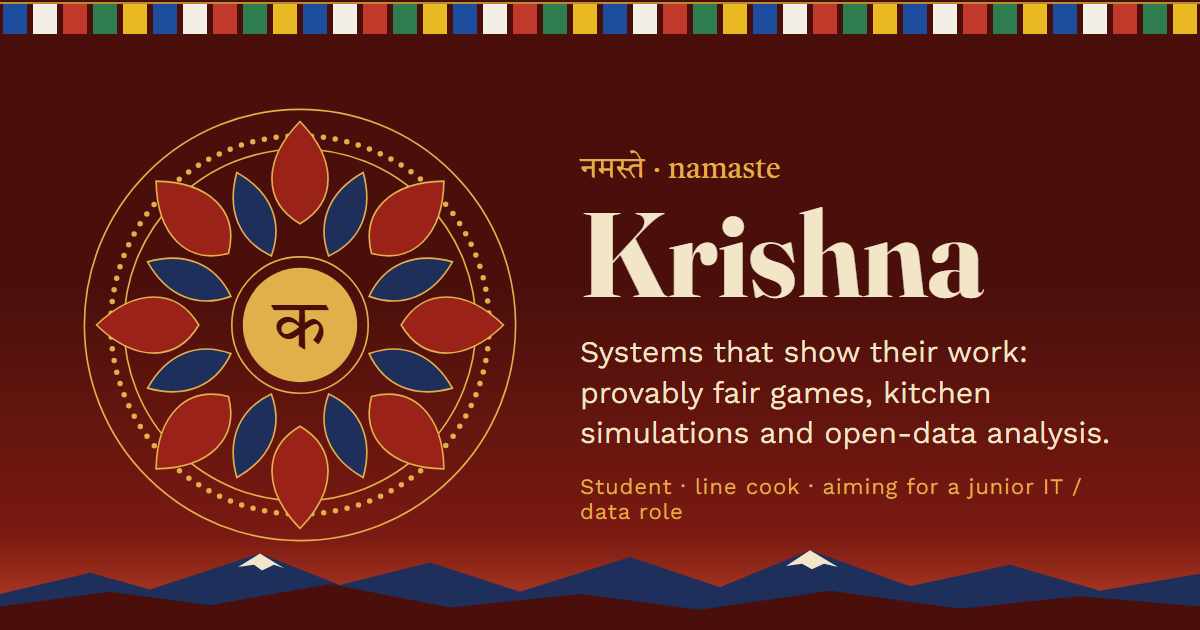
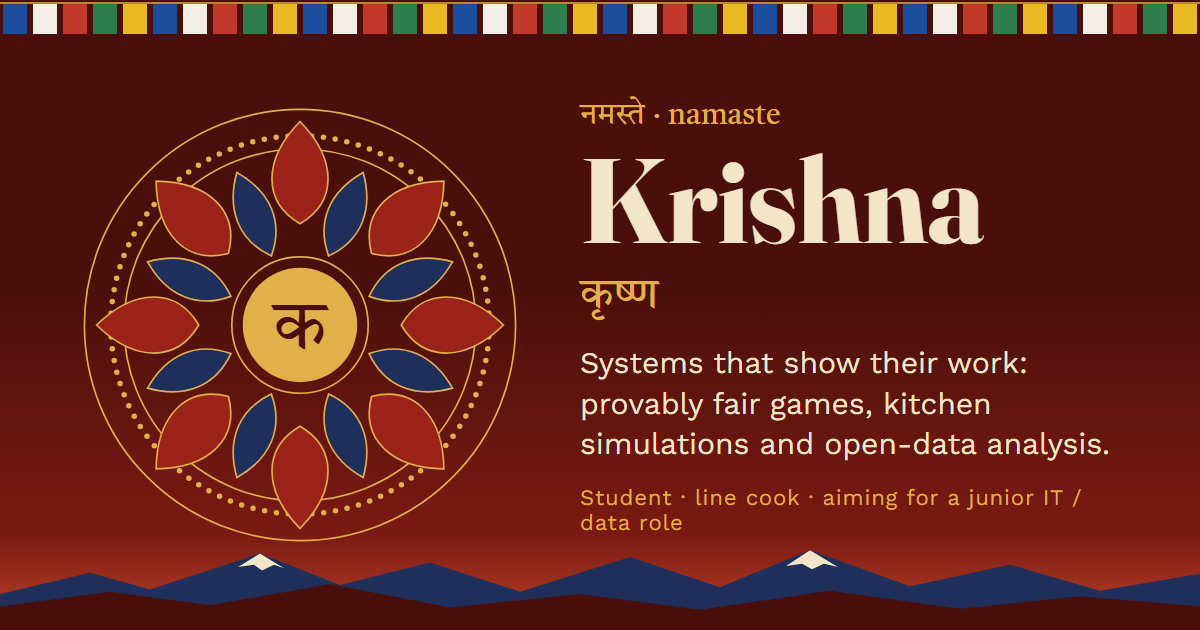
Show the name in Devanagari in the hero and the share image

diff --git a/index.html b/index.html
@@ -134,6 +134,7 @@
     <div class="intro">
       <p class="kicker">नमस्ते &middot; namaste</p>
       <h1>Krishna</h1>
+      <p class="dev-name" lang="ne">कृष्ण</p>
       <p class="lede">I build systems that show their work: games where fairness can be checked, simulations from the kitchen line, and analysis you can re-run.</p>
       <p class="sub">University student &middot; line cook &middot; aiming for a junior IT / data role</p>
       <p class="quip">I love writing code while my AI agents solve today's Wordle.

diff --git a/styles.css b/styles.css
@@ -87,6 +87,7 @@ a { color: inherit; }
 
 .kicker { margin: 0; color: var(--gold); font: 22px var(--dev); }
 h1 { margin: 4px 0 14px; font: 700 clamp(48px, 9vw, 88px)/1 var(--serif); color: var(--parchment); }
+.dev-name { margin: -6px 0 12px; font: 32px/1.2 var(--dev); color: var(--gold); }
 .lede { font-size: 20px; max-width: 34em; margin: 0 0 12px; }
 .sub { margin: 0 0 14px; color: var(--gold); letter-spacing: .04em; }
 .cta {
